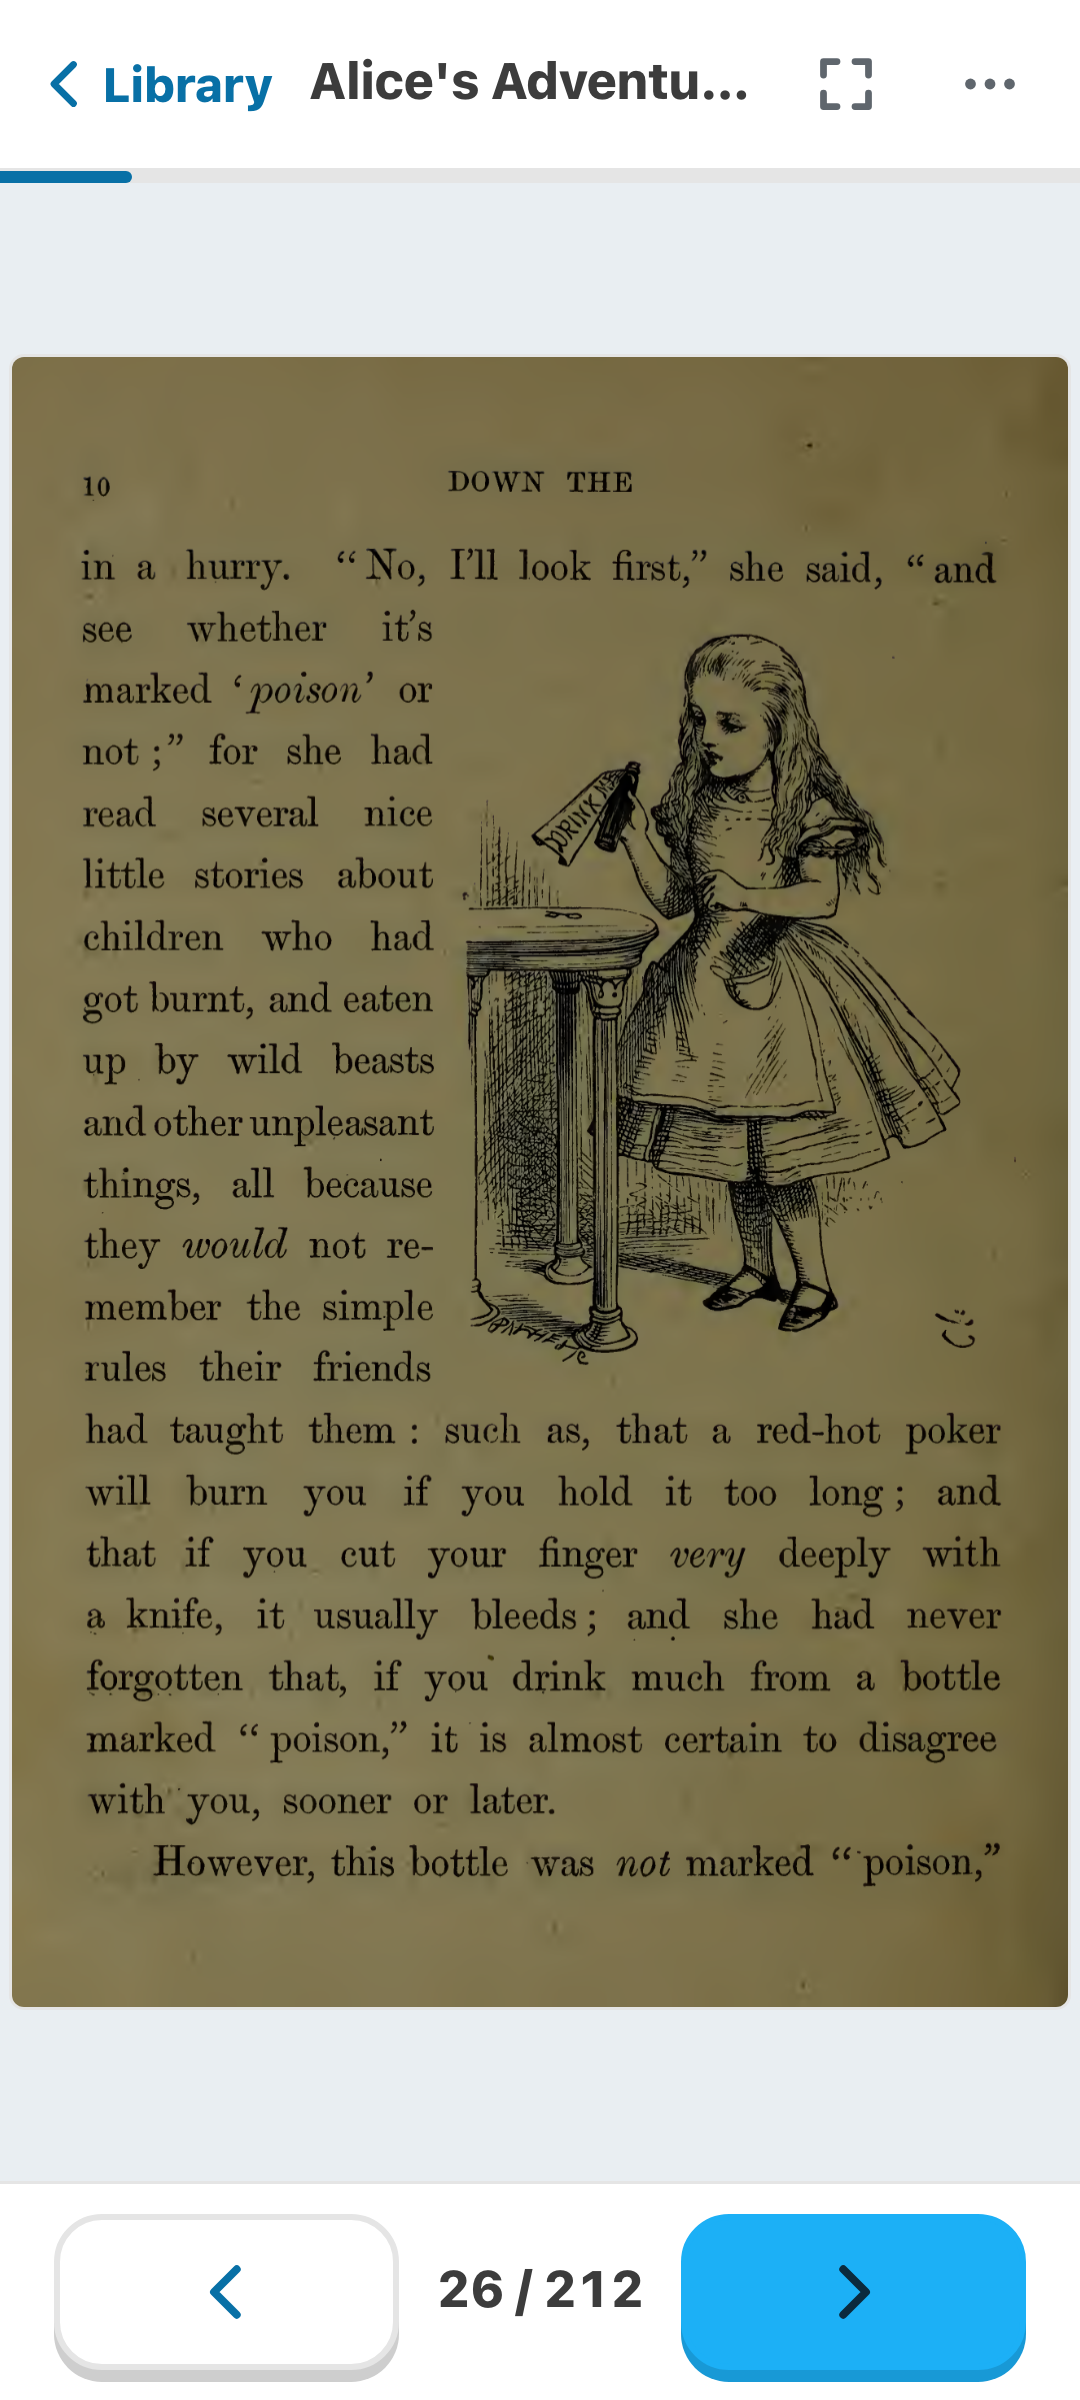
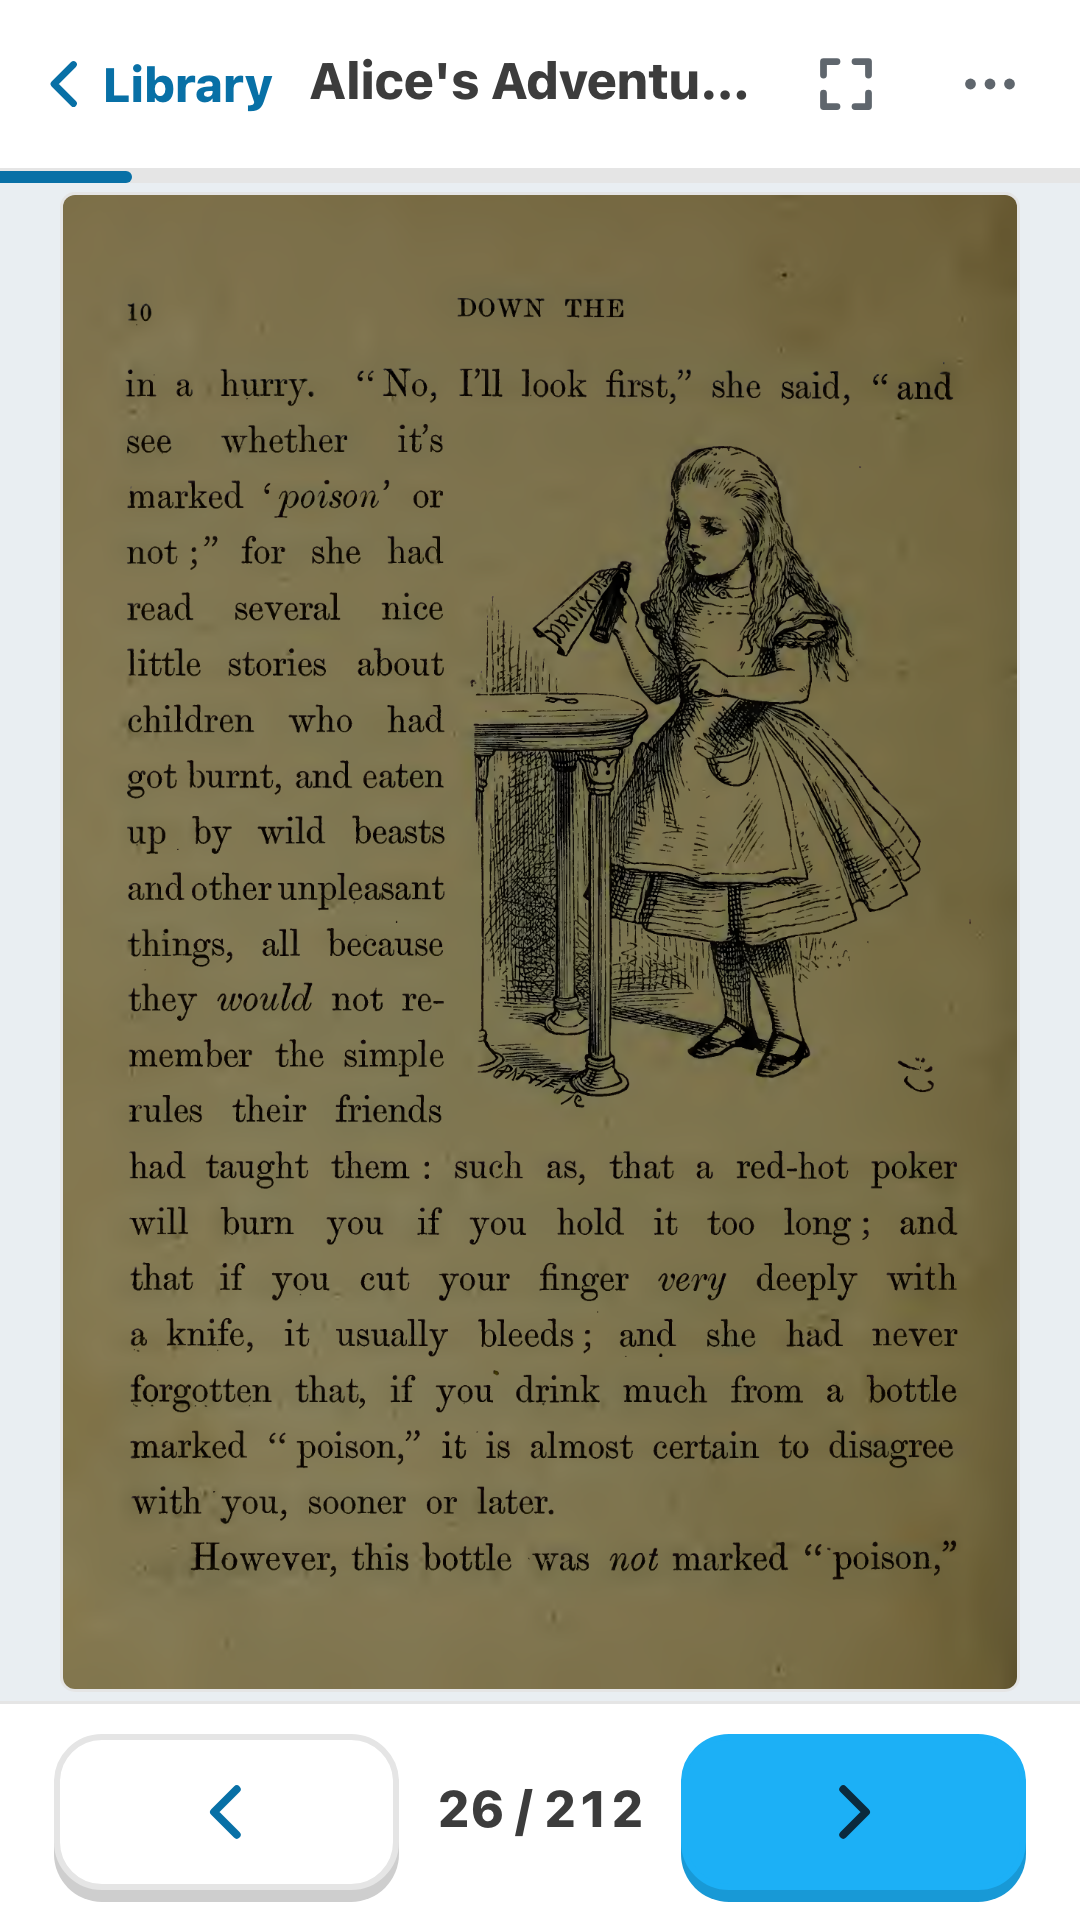
Android review fixes: Play-valid screenshots, safer release signing, listing accuracy
- Screenshots re-captured at 1080x1920 (Play caps the long side at 2x the short).
- Release signing: password read only when a release task is requested and only
  on macOS; clear errors when keystore.properties or the password is missing,
  so an unsigned or wrongly signed bundle can't be built by accident.
- Listing: drop account IDs, personal email and key locations from the public
  repo; data safety notes that web search is disabled in this build and spells
  out the collection judgment call; content rating answers unrestricted
  internet access conservatively.
- Remove unused Capacitor template tests and launcher background drawable.

Changed region(s): [[0.0, 0.0312, 1.0, 1.0], [0.7333, 0.1875, 0.7944, 0.25], [0.825, 0.1875, 0.8861, 0.2188]]

diff --git a/docs/play-store/listing.md b/docs/play-store/listing.md
@@ -1,6 +1,6 @@
 # DeezPDF on Google Play
 
-Package `online.deac.deezpdf` · version 1.1 (versionCode 16) · targetSdk 36 · Play developer account **Worldbuild.io** (owner deacondp@gmail.com).
+Package `online.deac.deezpdf` · version 1.1 (versionCode 16) · targetSdk 36 · Play developer account **Worldbuild.io**.
 
 Mirrors the iOS App Store listing (`store/listing/en-GB/`, App Store id 6782567924). Default language **English (United Kingdom) – en-GB**.
 
@@ -37,43 +37,53 @@ Full description:
 - **Ads:** No, the app does not contain ads.
 - **App access:** All functionality is available without special access (no login).
 - **Target audience and content:** 13+ (13–15, 16–17, 18+). Not designed for children: the online search reaches the open public catalogues of Internet Archive and Project Gutenberg, which the app does not curate, so don't opt into Families.
-- **Content rating (IARC questionnaire):** category **Reference, News, or Educational**. Answer *No* to violence, sexuality, language, controlled substances, gambling and crude humour. Users interact or exchange content: **No**. Shares the user's location: **No**. Digital purchases: **No**. Unrestricted internet access / web browsing: **No** (it only searches the Gutenberg and Internet Archive catalogues and downloads PDFs from links the user enters; it isn't a general web browser). Expected result: Everyone / PEGI 3. Email for the certificate: d@worldbuild.io.
+- **Content rating (IARC questionnaire):** category **Reference, News, or Educational**. Answer *No* to violence, sexuality, language, controlled substances, gambling and crude humour. Users interact or exchange content: **No**. Shares the user's location: **No**. Digital purchases: **No**. Unrestricted internet access: **Yes**. It isn't a web browser, but it downloads a PDF from any link the user enters, and Internet Archive results include user-uploaded texts the app doesn't moderate, so answer conservatively. Expected result: a low rating (Everyone / PEGI 3) plus an "Unrestricted internet" interactive element. Email for the certificate: d@worldbuild.io.
 - **Data safety:** see below.
 - **Government apps:** No. **Financial features:** None. **Health:** None. **News app:** No.
 - **Advertising ID:** the app does not use it (no ad or analytics SDKs).
 
 ## Data safety
 
-Answer: **"Does your app collect or share any of the required user data types?" → No.** Also: data is encrypted in transit (all endpoints are HTTPS), and the user can delete their data (remove a book in the app, or uninstall).
+Answer: **"Does your app collect or share any of the required user data types?" → No.**
 
-Checked against the code on branch `android/play-launch`:
+Checked against the code on branch `android/play-launch`. There are no analytics, crash reporting, ads, accounts or identifiers. Preferences live in `localStorage` and PDFs in IndexedDB, both only on the device. The only permission is `INTERNET`, and the developer runs no server that receives anything from the app.
 
 | Network call | Where | What leaves the device |
 |---|---|---|
 | Project Gutenberg catalogue (`gutendex.com`) | `src/lib/lookup/gutenberg.ts` | The search text the user typed, sent straight to that public catalogue |
-| Internet Archive (`archive.org` search, metadata, download) | `src/lib/lookup/archive-org.ts` | The search text, then the chosen item |
-| Download from a link | `src/lib/download.ts` (CapacitorHttp in the app) | A GET request to the URL the user entered |
-| Web search (`https://deac.online/api/pdf-search`) | `src/lib/lookup/web-search.ts` | The search text, sent to **Dale's own server**. The endpoint currently returns 404, so nothing is received today |
+| Internet Archive (`archive.org` search, metadata, download) | `src/lib/lookup/archive-org.ts` | The search text, then the item the user chose |
+| Download from a link | `src/lib/download.ts` (CapacitorHttp) | A GET request to the URL the user entered |
+| Web search (`deac.online/api/pdf-search`) | `src/lib/lookup/web-search.ts` | Nothing: **disabled in this build** (`WEB_SEARCH_ENABLED = false` in `src/lib/lookup/sources.ts`), so the endpoint is never called |
 
-- There are no analytics, crash reporting, ads, accounts or identifiers. Preferences are in `localStorage` and PDFs in IndexedDB, both on the device only.
-- The only permission is `INTERNET`.
-- The Gutenberg, Archive and link requests happen only when the user asks, and go to the service they asked for. Play treats that as not collected by the developer.
-- **Caveat: the web search.** If `deac.online/api/pdf-search` is ever deployed, search text will reach a server Dale runs. Play counts that as collection, so you'd then declare **App activity → Other user-generated content / In-app search history**: collected, not shared, processed ephemerally, optional, for app functionality. Alternatively, hide the "Web" source on Android until it exists.
+**Judgment call.** Play defines "collection" as data your app transmits off the device. Its exemptions cover on-device processing and end-to-end encryption, and its "user-initiated" exemption covers *sharing*, not collection. The search text and link requests above go directly from the device to public services the user chose, and the developer never receives them. That makes "No" defensible, and it matches the App Store's "Data Not Collected". The conservative alternative is to declare **App activity → In-app search history**: collected, not shared, processed ephemerally, required for the search feature.
+
+**If web search is ever switched on,** search text would reach a server Dale runs. You'd then have to declare **App activity → In-app search history** (collected, processed ephemerally, not shared, for app functionality) before shipping that build.
+
+**Auto Backup:** `android:allowBackup` is on, so Android's own device backup can include the library in the user's Google account. Play doesn't count that as developer collection; iOS behaves the same with iCloud backup.
 
 ## Release
 
-- **Upload key:** `~/.android-keys/deezpdf-upload.jks` (alias `deezpdf`). The password is only in the macOS login Keychain (service `deezpdf-upload-keystore`, account `deezpdf`). Upload certificate SHA-256: `5C:CE:82:9E:65:94:A2:9C:CF:F8:B8:70:1A:E8:E4:C1:43:DC:A3:BD:48:29:27:60:85:72:02:AF:EF:72:C4:E9`.
-- **Play App Signing:** on. Google holds the app signing key, and the file above is only the upload key.
-- **Build:** `npm run android:bundle` builds `android/app/build/outputs/bundle/release/app-release.aab`. It needs JDK 21 (`JAVA_HOME=/opt/homebrew/opt/openjdk@21/libexec/openjdk.jdk/Contents/Home`) and `android/local.properties` with `sdk.dir`.
-- **Track:** Internal testing first, with tester deacondp@gmail.com. Production waits for Dale's go-ahead.
+- **Play App Signing:** on. Google holds the app signing key; the repo builds with an upload key that lives outside the repo.
+- **Build:** `npm run android:bundle` builds `android/app/build/outputs/bundle/release/app-release.aab`. It needs:
+  - JDK 21 and `android/local.properties` with `sdk.dir`.
+  - A gitignored `android/keystore.properties` with `storeFile`, `keyAlias` and `keychainService`.
+  - The upload-key password, from the macOS Keychain (that service, with account = `keyAlias`) or from `DEEZPDF_KEYSTORE_PASSWORD`.
+  - Release builds stop with a clear error if any of this is missing, so an unsigned bundle can't be produced by accident.
+- **Track:** internal testing first. Production waits for Dale's go-ahead after testing.
 - **Release notes (en-GB):** `First Android release: read PDFs page-by-page, keep a local library on your device, and find free public-domain books.`
 
-## Play Console steps (signed in as deacondp@gmail.com)
+## Play Console steps
 
-The Play Developer API can't create apps, and there's no service account on this Mac, so the first release goes through the Console, as Mochi's did.
+The Play Developer API can't create apps, so the first release goes through the Console:
 
-1. Go to play.google.com/console, choose **Worldbuild.io** (account 5072169749072310170, not the removed "worldbuild.io" one), then **Create app**. Fill in: name `DeezPDF`, default language English (United Kingdom), App, Free. Tick the two declarations, then **Create app**.
-2. Under **Testing → Internal testing**, open **Testers**, create the email list "DeezPDF internal" with `deacondp@gmail.com`, and save. Copy the **opt-in link** shown there.
-3. Still under **Internal testing**: **Create new release**, confirm Play App Signing ("Use Google-generated key"), and upload `app-release.aab`. Paste the release notes, then **Next → Save → Start rollout to Internal testing**.
-4. Open **Dashboard → Set up your app** and fill in each section from this file: privacy policy, app access, ads, content rating, target audience, data safety, government apps, financial features, health, and the store listing with assets from `docs/play-store/assets/`.
-5. Don't promote to production until Dale has tested the build.
+1. **Create app** in the Worldbuild.io developer account:
+   - App name: `DeezPDF`
+   - Default language: English (United Kingdom)
+   - App, Free; accept the declarations.
+2. **Testing → Internal testing → Testers:** create an email list with the tester accounts, then copy the opt-in link.
+3. **Internal testing → Create new release:**
+   - Accept Play App Signing (Google-generated key) and upload `app-release.aab`.
+   - Paste the release notes.
+   - **Start rollout to Internal testing**.
+4. **Dashboard → Set up your app:** fill in each section from this file (privacy policy, app access, ads, content rating, target audience, data safety, government apps, financial features, health) and the store listing with the assets in `docs/play-store/assets/`.
+5. Promote to production only after testing.
